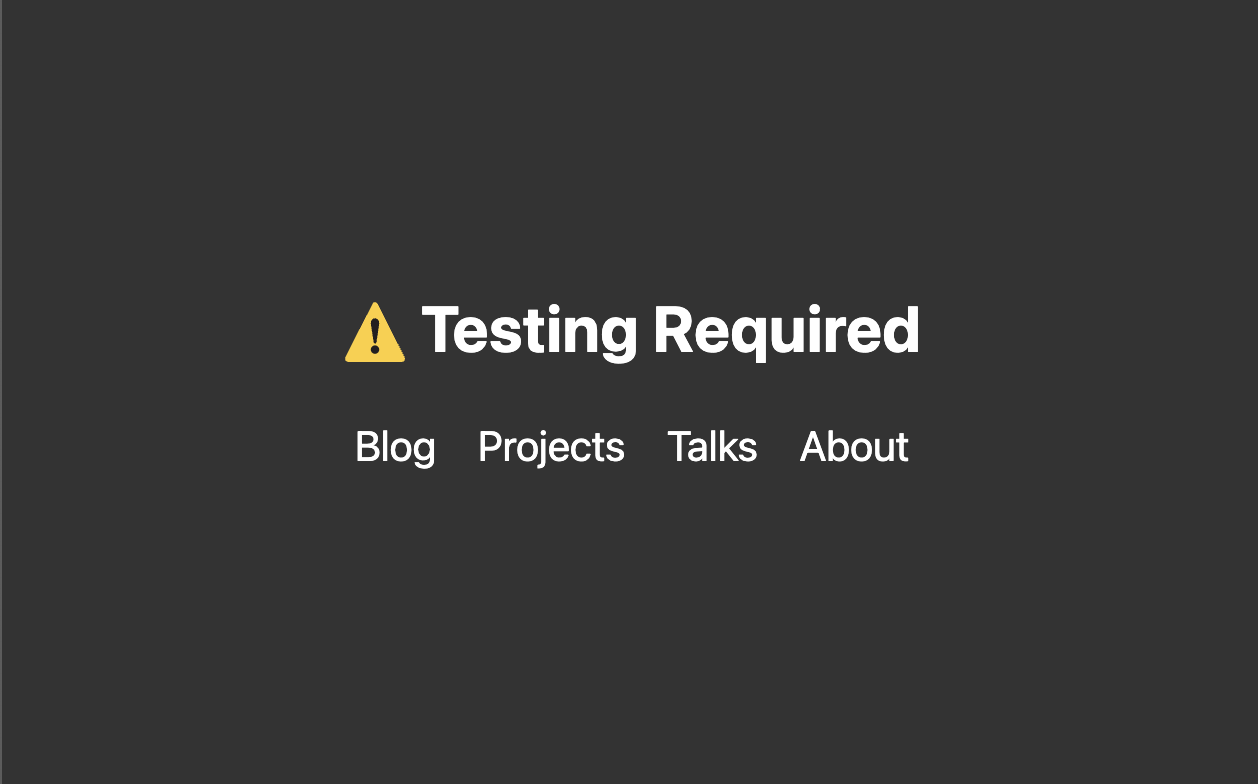
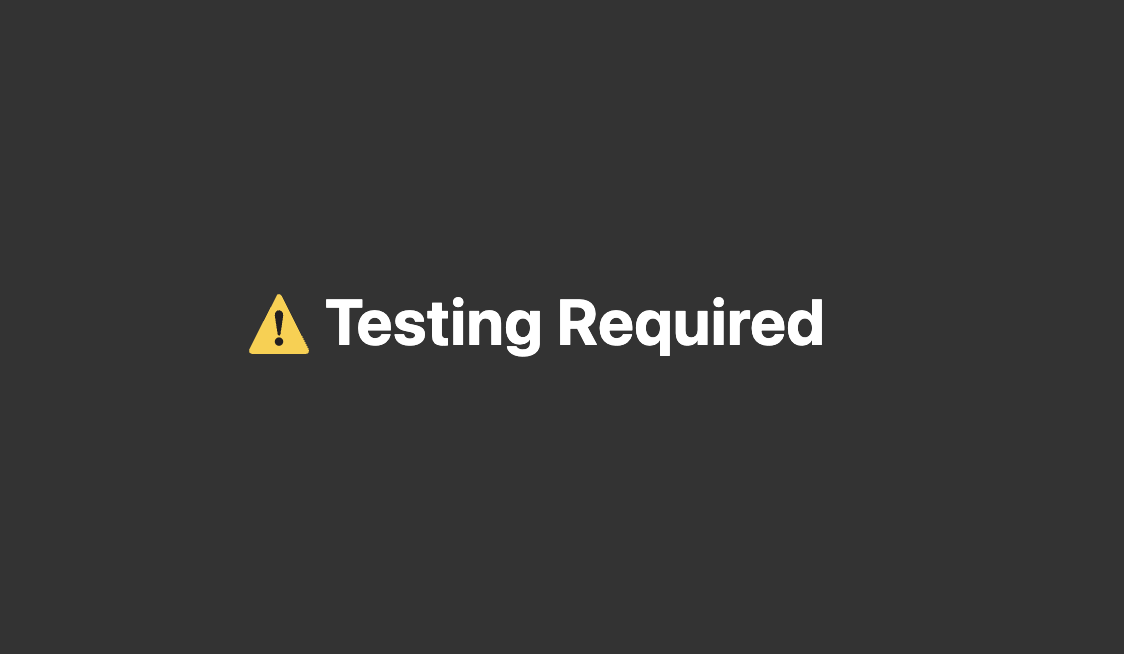
Update preview picture

Changed region(s): [[0.218, 0.367, 0.7473, 0.6116]]

diff --git a/src/components/nav-menu.js b/src/components/nav-menu.js
@@ -4,7 +4,7 @@ import styled from 'styled-components';
 import InlineList from './inline-list';
 
 const NavMenuStyle = styled(InlineList)`
-  display: flex;
+  display: none;
   justify-content: center;
   flex-wrap: wrap;
   font-size: 1.3em;
